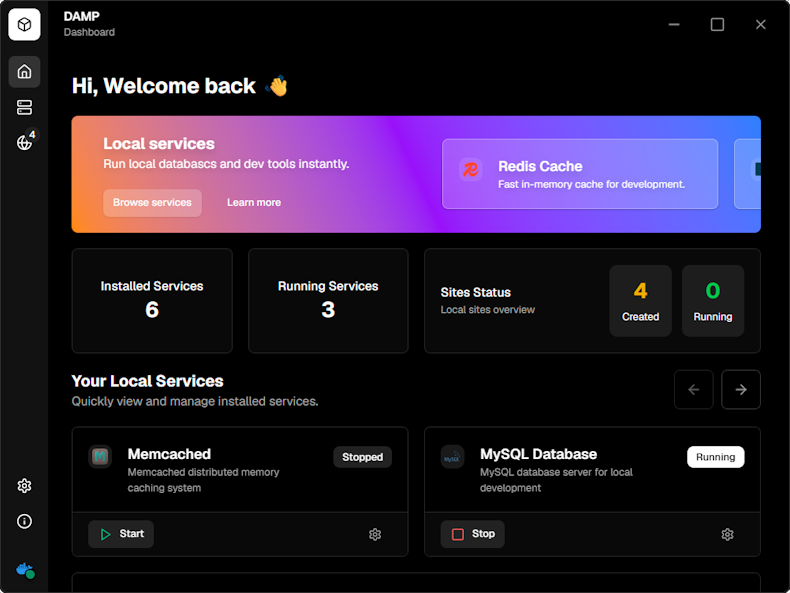
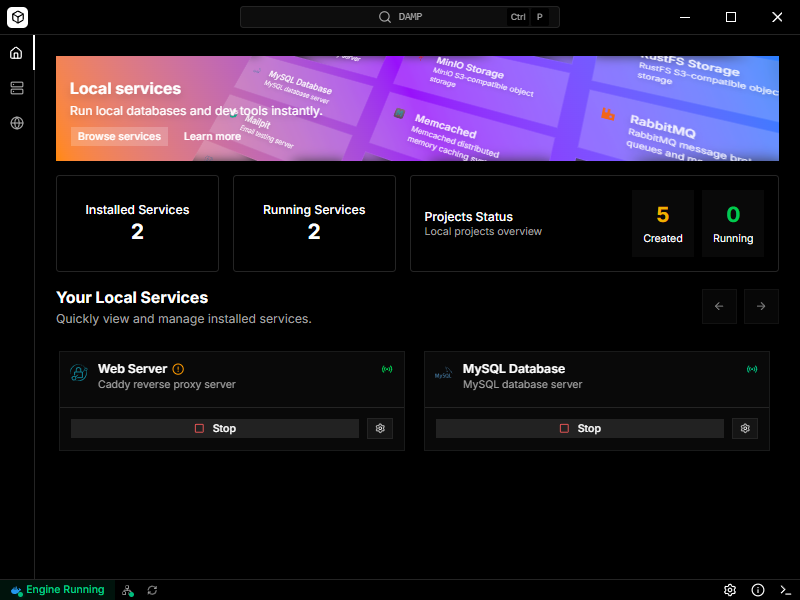
chore(docs): update, add  screenshots and remove unused files

diff --git a/README.md b/README.md
@@ -1,241 +1,198 @@
-# damp-app
+<div align="center">
+  <img src="resources/icons/icon.png" alt="DAMP Logo" width="120" height="120">
+  
+  # DAMP
+  
+  **Docker-powered PHP development without the CLI complexity**
+  
+  [![Latest Release](https://img.shields.io/github/v/release/PickleBoxer/damp-app)](https://github.com/PickleBoxer/damp-app/releases)
+  [![Downloads](https://img.shields.io/github/downloads/PickleBoxer/damp-app/total)](https://github.com/PickleBoxer/damp-app/releases)
+  
+  [Download](https://github.com/PickleBoxer/damp-app/releases) · [Documentation](https://getdamp.app/) · [Report Bug](https://github.com/PickleBoxer/damp-app/issues) · [Request Feature](https://github.com/PickleBoxer/damp-app/issues)
+</div>
 
-Electron in all its glory. Everything you will need to develop your beautiful desktop application.
+---
 
-## Libs and tools
+## 📖 About
 
-To develop a Electron app, you probably will need some UI, test, formatter, style or other kind of library or framework, so let me install and configure some of them to you.
+**DAMP** transforms Docker into a visual development environment for PHP developers. Create production-ready containerized projects, manage databases and services, and get automatic HTTPS domains—all without touching the terminal.
 
-### Core 🏍
+### ✨ Key Features
 
-- [Electron 38](https://www.electronjs.org)
-- [Vite 7](https://vitejs.dev)
+- 🚀 **One-Click Project Creation** — Laravel or PHP projects with DevContainers, Xdebug, and docker-compose pre-configured
+- 🔒 **Automatic HTTPS** — Every project gets custom `.local` domains with SSL certificates via Caddy reverse proxy
+- 🎛 **14 Pre-Configured Services** — MySQL, PostgreSQL, MongoDB, Redis, Valkey, MariaDB, Memcached, Meilisearch, Typesense, Mailpit, MinIO, RabbitMQ, and Caddy
+- 🌐 **Ngrok Integration** — Share localhost with clients or webhooks instantly using built-in tunnel management
+- 📦 **Zero System Impact** — Run PHP 7.4, 8.0, 8.1, 8.2, 8.3, and 8.4 simultaneously without version conflicts
+- 🔄 **Smart Volume Sync** — Bidirectional sync between Docker volumes and local filesystem with selective exclusions
+- 🎨 **Beautiful UI** — Modern desktop interface built with React 19 and shadcn/ui
+- 💻 **VS Code Ready** — Auto-generates DevContainers with IntelliSense and debugging configured
 
-### DX 🛠
+### 🎯 Who Is This For?
 
-- [TypeScript 5.9](https://www.typescriptlang.org)
-- [Prettier](https://prettier.io)
-- [ESLint 9](https://eslint.org)
-- [Zod 4](https://zod.dev)
-- [React Query (TanStack)](https://react-query.tanstack.com)
+- PHP/Laravel developers tired of XAMPP version conflicts or Docker CLI complexity
+- Freelancers managing multiple client projects with different requirements
+- Teams needing reproducible development environments
+- Developers wanting Docker's production-parity without memorizing terminal commands
+- Anyone transitioning from Herd/Valet seeking containerization benefits
 
-### UI 🎨
+### 🆚 Why Choose DAMP?
 
-- [React 19](https://reactjs.org)
-- [Tailwind 4](https://tailwindcss.com)
-- [Shadcn UI](https://ui.shadcn.com)
-- [Geist](https://vercel.com/font) as default font
-- [TanStack Router](https://tanstack.com/router) (with file based routing)
-- [Lucide](https://lucide.dev)
+| vs | Advantage |
+|---|---|
+| **Laravel Herd** | True Docker containers (production-parity), works with any PHP framework |
+| **DDEV/Lando** | Beautiful GUI instead of CLI commands, visual configuration instead of YAML |
+| **XAMPP/MAMP** | Complete isolation, multiple PHP versions, clean uninstall, reproducible environments |
+| **Docker CLI** | Visual management, automatic reverse proxy, one-click setup, no command memorization |
 
-### Test 🧪
+---
 
-- [Vitest](https://vitest.dev)
-- [Playwright](https://playwright.dev)
-- [React Testing Library](https://testing-library.com/docs/react-testing-library/intro)
+## 🚀 Quick Start
 
-### Packing and distribution 📦
+### Installation
 
-- [Electron Forge](https://www.electronforge.io)
+1. **Download** the latest release for Windows from [Releases](https://github.com/PickleBoxer/damp-app/releases)
+2. **Install** by running the `.exe` installer or extract the portable `.zip`
+3. **Launch** DAMP from your desktop or Start menu
 
-### CI/CD 🚀
+### Prerequisites
 
-- Pre-configured [GitHub Actions workflow](https://github.com/PickleBoxer/damp-app/blob/main/.github/workflows/playwright.yml), for test with Playwright
+- **Docker Desktop** (or Docker Engine) must be installed and running
+- **VS Code** with [Dev Containers extension](https://marketplace.visualstudio.com/items?itemName=ms-vscode-remote.remote-containers) — Required to open generated DevContainer projects
+- **Windows 10/11**
 
-### Project preferences 🎯
+### Creating Your First Project
 
-- Use Context isolation
-- [React Compiler](https://react.dev/learn/react-compiler) is enabled by default.
-- `titleBarStyle`: hidden (Using custom title bar)
-- Geist as default font
-- Some default styles was applied, check the [`styles`](https://github.com/PickleBoxer/damp-app/tree/main/src/styles) directory
-- React DevTools are installed by default
+1. Click **"New Project"** in the DAMP dashboard
+2. Choose **Laravel** or **Basic PHP** template
+3. Configure PHP version, domain name, and database
+4. Click **Create** — your project will be ready with HTTPS in seconds!
 
-## Directory structure
+Visit [Documentation](https://getdamp.app/) for detailed guides.
 
-```plaintext
-.
-└── ./src/
-    ├── ./src/assets/
-    │   └── ./src/assets/fonts/
-    ├── ./src/components/
-    │   ├── ./src/components/template
-    │   └── ./src/components/ui/
-    ├── ./src/helpers/
-    │   └── ./src/helpers/ipc/
-    ├── ./src/layout/
-    ├── ./src/lib/
-    ├── ./src/pages/
-    ├── ./src/style/
-    └── ./src/tests/
-```
+---
 
-- `src/`: Main directory
-  - `assets/`: Store assets like images, fonts, etc.
-  - `components/`: Store UI components
-    - `template/`: Store the all not important components used by the template. It doesn't include the `WindowRegion` or the theme toggler, if you want to start an empty project, you can safely delete this directory.
-    - `ui/`: Store Shadcn UI components (this is the default direcotry used by Shadcn UI)
-  - `helpers/`: Store IPC related functions to be called in the renderer process
-    - `ipc/`: Directory to store IPC context and listener functions
-      - Some implementations are already done, like `theme` and `window` for the custom title bar
-  - `layout/`: Directory to store layout components
-  - `lib/`: Store libraries and other utilities
-  - `pages/`: Store app's pages
-  - `style/`: Store global styles
-  - `tests/`: Store tests (from Vitest and Playwright)
+## 📸 Screenshots
 
-## Security Best Practices
+<div align="center">
+  <img src="docs/public/screenshots/dash.png" alt="DAMP Dashboard" width="800">
+  <p><i>Project Dashboard with real-time status monitoring</i></p>
+  
+  <img src="docs/public/screenshots/services.png" alt="Service Management" width="800">
+  <p><i>Visual service management with one-click installation</i></p>
+  
+  <img src="docs/public/screenshots/projects.png" alt="Site Configuration" width="800">
+  <p><i>Multi-site management with custom domains</i></p>
+</div>
 
-### Required Configuration
-```typescript
-// src/main.ts - webPreferences
-webPreferences: {
-  contextIsolation: true,        // ✅ REQUIRED - Isolate contexts
-  nodeIntegration: false,        // ✅ REQUIRED - No Node.js in renderer
-  nodeIntegrationInSubFrames: false, // ✅ REQUIRED
-  preload: preload,              // ✅ REQUIRED - Secure bridge
-  sandbox: true,                 // 🔒 RECOMMENDED - Extra isolation
-}
-```
+---
 
-### Security Architecture
+## 🛠 Tech Stack
 
-```mermaid
-graph TB
-    subgraph "Main Process (Privileged)"
-        M[main.ts<br/>Node.js APIs<br/>File System<br/>OS Access]
-        L[IPC Listeners<br/>listeners-register.ts]
-    end
-    
-    subgraph "Preload Script (Bridge)"
-        P[preload.ts<br/>context-exposer.ts]
-        CB[contextBridge<br/>Secure API Gateway]
-    end
-    
-    subgraph "Renderer Process (Sandboxed)"
-        R[React App<br/>NO Node.js Access]
-        W[window.themeMode<br/>window.electronWindow]
-    end
-    
-    M -->|registers| L
-    P -->|import electron| CB
-    CB -->|exposeInMainWorld| W
-    R -->|calls| W
-    W -->|ipcRenderer.invoke| L
-    L -->|response| W
-    
-    style M fill:#ff6b6b
-    style P fill:#ffd93d
-    style R fill:#6bcf7f
-    style CB fill:#4d96ff
-```
+Built with modern technologies for performance, security, and developer experience:
 
-### IPC Architecture Pattern
+### Core Framework
+- **[Electron 38](https://www.electronjs.org)** — Cross-platform desktop framework with context isolation
+- **[Vite 7](https://vitejs.dev)** — Lightning-fast build tool and HMR
+- **[TypeScript 5.9](https://www.typescriptlang.org)** — Type-safe development
 
-All IPC follows this **secure 3-layer pattern** in `src/helpers/ipc/`:
+### User Interface
+- **[React 19](https://reactjs.org)** — UI library with React Compiler enabled
+- **[TanStack Router](https://tanstack.com/router)** — Type-safe file-based routing with memory history
+- **[shadcn/ui](https://ui.shadcn.com)** — Beautiful, accessible component system
+- **[Tailwind CSS 4](https://tailwindcss.com)** — Utility-first styling
+- **[Lucide Icons](https://lucide.dev)** — Modern icon library
+- **[Geist Font](https://vercel.com/font)** — Clean, readable typography
 
-1. **Channels** (`*-channels.ts`): Define channel name constants (e.g., `THEME_MODE_TOGGLE_CHANNEL`)
-2. **Context** (`*-context.ts`): Use `import { contextBridge, ipcRenderer } from 'electron'` to expose APIs
-3. **Listeners** (`*-listeners.ts`): `ipcMain.handle` to implement main process handlers
+### Backend Integration
+- **[Dockerode](https://github.com/apocas/dockerode)** — Docker Engine API client
+- **[TanStack Query](https://tanstack.com/query)** — Async state management
+- **[Zod 4](https://zod.dev)** — Runtime validation and type safety
 
-```mermaid
-sequenceDiagram
-    participant R as Renderer<br/>(React Component)
-    participant W as Window API<br/>(window.themeMode)
-    participant P as Preload<br/>(contextBridge)
-    participant I as IPC Channel<br/>(THEME_MODE_TOGGLE_CHANNEL)
-    participant M as Main Process<br/>(theme-listeners)
-    
-    R->>W: window.themeMode.toggle()
-    W->>P: ipcRenderer.invoke()
-    P->>I: Send on channel
-    I->>M: ipcMain.handle()
-    M->>M: Access nativeTheme
-    M-->>I: Return result
-    I-->>P: Response
-    P-->>W: Promise resolves
-    W-->>R: Update UI
-    
-    Note over R,M: Renderer has ZERO direct Node.js access
-```
+### DevOps & Infrastructure
+- **[Caddy](https://caddyserver.com)** — Automatic HTTPS reverse proxy
+- **[Ngrok](https://ngrok.com)** — Secure tunneling service
+- **Docker** — Containerization engine
 
-## NPM script
+### Quality Assurance
+- **[Vitest](https://vitest.dev)** — Unit testing framework
+- **[Playwright](https://playwright.dev)** — End-to-end testing
+- **[ESLint 9](https://eslint.org)** — Code linting
+- **[Prettier](https://prettier.io)** — Code formatting
 
-To run any of those scripts:
+### Distribution
+- **[Electron Forge](https://www.electronforge.io)** — Building, packaging, and publishing
+- **GitHub Actions** — Automated CI/CD pipeline with R2 backup
+
+---
+
+## 💻 Development
 
 ```bash
-npm run <script>
-```
-
-- `start`: Start the app in development mode
-- `package`: Package your application into a platform-specific executable bundle and put the result in a folder.
-- `make`: Generate platform-specific distributables (e.g. .exe, .dmg, etc) of your application for distribution.
-- `publish`: Electron Forge's way of taking the artifacts generated by the `make` command and sending them to a service somewhere for you to distribute or use as updates.
-- `lint`: Run ESLint to lint the code
-- `format`: Run Prettier to check the code (it doesn't change the code)
-- `format:write`: Run Prettier to format the code
-- `test`: Run the default unit-test script (Vitest)
-- `test:watch`: Run the default unit-test script in watch mode (Vitest)
-- `test:unit`: Run the Vitest tests
-- `test:e2e`: Run the Playwright tests
-- `test:all`: Run all tests (Vitest and Playwright)
-
-> The test scripts involving Playwright require the app be builded before running the tests. So, before run the tests, run the `package`, `make` or `publish` script.
-
-## How to use
-
-1. Clone this repository
-
-```bash
+# Clone and setup
 git clone https://github.com/PickleBoxer/damp-app.git
+cd damp-app
+pnpm install
+
+# Start development
+pnpm start          # Development mode with HMR
+pnpm test           # Run tests
+pnpm lint           # Check code quality
 ```
 
-Or use it as a template on GitHub
+See [Contributing Guide](CONTRIBUTING.md) for detailed development guidelines
 
-2. Install dependencies
+---
 
-```bash
-npm install
-```
+## 🤝 Contributing
 
-3. Run the app
+Contributions are welcome! Whether it's bug reports, feature requests, or code contributions.
 
-```bash
-npm run start
-```
+### How to Contribute
 
-## Releasing
+1. **Fork** the repository
+2. **Create** a feature branch (`git checkout -b feature/amazing-feature`)
+3. **Commit** your changes using [Conventional Commits](https://www.conventionalcommits.org/)
+   - `feat:` — New features
+   - `fix:` — Bug fixes
+   - `docs:` — Documentation updates
+   - `refactor:` — Code refactoring
+   - `test:` — Test additions or updates
+4. **Push** to your branch (`git push origin feature/amazing-feature`)
+5. **Open** a Pull Request
 
-This project uses semantic versioning and automated GitHub releases with Cloudflare R2 backup.
+### Development Guidelines
 
-### Release Process
+- Follow existing code style (enforced by ESLint/Prettier)
+- Write tests for new features
+- Update documentation as needed
+- Ensure all tests pass before submitting PR
+- Keep commits atomic and well-described
 
-1. **Update CHANGELOG.md** — Document changes in [Keep a Changelog](https://keepachangelog.com/) format
+See [CONTRIBUTING.md](CONTRIBUTING.md) for detailed guidelines.
 
-2. **Bump version**
-   ```bash
-   pnpm version patch   # 0.1.0 → 0.1.1 (bug fixes)
-   pnpm version minor   # 0.1.0 → 0.2.0 (new features)
-   pnpm version major   # 0.1.0 → 1.0.0 (breaking changes)
-   ```
+---
 
-3. **Push tags** — `git push && git push --tags` triggers automated build/publish
+## 📄 License
 
-4. **Review draft** — GitHub Actions creates draft release with auto-generated notes from commits/PRs
+This project is licensed under the **MIT License** — see [LICENSE](LICENSE) file for details.
 
-### Build Outputs
+---
 
-- **Installer** — `.exe` (Squirrel installer with auto-update support)
-- **Portable** — `.zip` (extract and run, no installation required)
+## 🙏 Acknowledgments
 
-Both uploaded to GitHub Releases and Cloudflare R2 automatically.
+- [Electron](https://www.electronjs.org) — Cross-platform desktop framework
+- [shadcn/ui](https://ui.shadcn.com) — Beautiful component library
+- [Caddy](https://caddyserver.com) — Automatic HTTPS reverse proxy
+- [Laravel Herd](https://herd.laravel.com) — Inspiration for simplifying local development
 
-### GitHub Secrets Required
+---
 
-Configure in repository Settings → Secrets:
-- `R2_ACCESS_KEY_ID` — Cloudflare R2 access key
-- `R2_SECRET_ACCESS_KEY` — Cloudflare R2 secret key
-- `R2_BUCKET` — R2 bucket name
-- `R2_ENDPOINT` — R2 endpoint URL (e.g., `https://<account-id>.r2.cloudflarestorage.com`)
-
-
+<div align="center">
+  <p>Made with ❤ for the PHP community</p>
+  <p>
+    <a href="https://github.com/PickleBoxer/damp-app">⭐ Star on GitHub</a> •
+    <a href="https://github.com/PickleBoxer/damp-app/releases">📥 Download</a> •
+    <a href="https://getdamp.app/">📚 Docs</a>
+  </p>
+</div>
